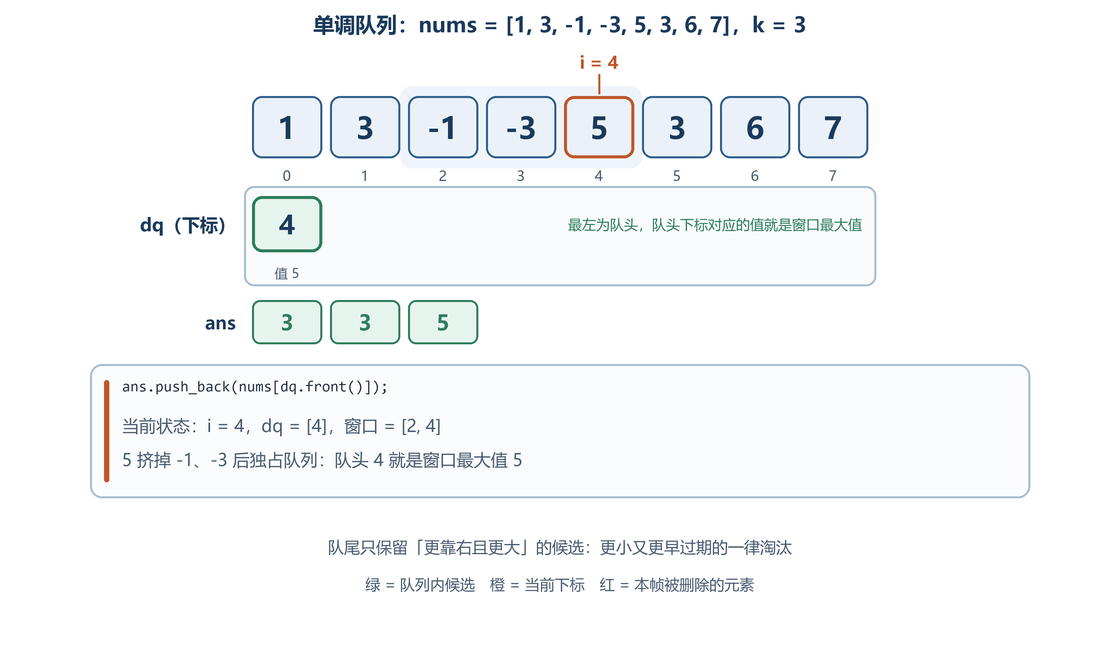
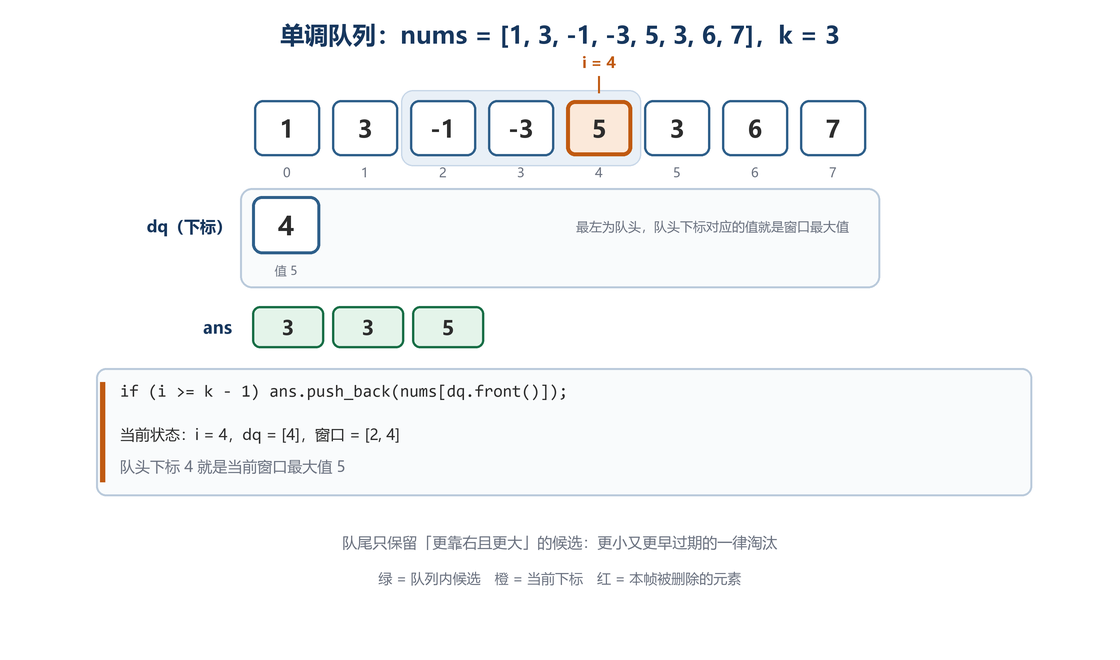
docs: 同步 deque 说明与栈队列章节修订
- C++ 第 7 章重写 deque 底层结构（分段连续数组、中央控制器、中间插入代价与适用场景）
- 数据结构第 4 章统一 LeetCode 题目引用格式，更新单调队列配图
- README 整理记录同步

diff --git a/docs/C++/07-STL容器与算法.md b/docs/C++/07-STL容器与算法.md
@@ -245,32 +245,151 @@ void insertValue(std::vector<int>& v, std::size_t index, int value)
 
 ## 7.4 `deque`：双端队列
 ### 7.4.1 基本概念与底层结构
-`deque`（Double-ended Queue）支持头部和尾部的高效 O(1) 插入/删除。
+`deque`（Double-ended Queue）是语义上的**双端队列**：头尾两端都能以摊销 O(1) 完成插入/删除，同时保留 O(1) 的随机访问。它既不是“头部可插入的 `vector`”，也不是链表，而是一种**分段连续**的数组结构。
 
-+ **底层并非单一连续数组**：它由一段段固定大小的连续内存块（Buffer）组成，通过一个中央控制器（`map`，一个指针数组）来管理这些内存块。
++ **底层并非单一连续数组**：元素被切分到若干段固定大小的连续内存块（Buffer / 块）中，另有一张指针数组（中央控制器，常称 `map`，与关联容器 `std::map` 毫无关系）按顺序记录各块地址。
++ **伪连续**：逻辑上下标访问像数组，物理上块与块之间并不相邻。所以 `&de[0] + i` 不保证等于 `&de[i]`，也不能把首元素地址当作 C 数组传给以 `T*` 为参数的函数——`deque` 根本没有 `data()`。
++ **首尾操作 O(1)**：头部插入只需在头部块的空闲槽位写入、必要时新建一个块，不需要像 `vector` 那样搬移已有元素；元素本身也不会因此搬家。
 + **伪随机访问**：它支持 `[]` 和 `+n`，但底层需要通过中央控制器进行两次偏移计算（先找到对应的 Buffer，再找到 Buffer 内的偏移），因此随机访问速度比 `vector` 慢。
-+ **适用场景**：后端开发中的**滑动窗口算法**、或者需要频繁在头部和尾部同时操作的场景。
++ **中间插入/删除 O(N)**：需要搬移元素；标准只保证 O(N)，常见实现会搬移距离较短的一侧（插入点到头部、插入点到尾部取较小者），因此比 `vector` 的中间插入略好，但仍是线性代价。
++ **块大小不由标准规定**：常见实现按 `sizeof(T)` 选取每块的元素个数（如 libstdc++ 取 `512 / sizeof(T)`，至少 1 个），具体数值属于实现细节，不能写进业务逻辑。
++ **适用场景**：后端开发中的**滑动窗口算法**、任务/消息缓冲、撤销栈，以及需要频繁在头部和尾部同时操作的场景。`std::stack` 与 `std::queue` 的默认底层容器就是 `deque`（见 7.10）。
 
+### 7.4.2 分段结构：中央控制器与迭代器寻址
+```text
+                 中央控制器（指针数组 map）
+              ┌────┬────┬────┬────┬────┐
+              │    │ P1 │ P2 │ P3 │    │  ← 两端空槽位，便于常数时间扩展
+              └────┴─┬──┴─┬──┴─┬──┴────┘
+                     │    │    │
+                ┌────▼─┐┌─▼────┐┌─▼────┐
+                │ 块1  ││  块2  ││ 块3  │  ← 每块是一段连续内存，大小实现相关
+                │ 空闲 ││ 元素… ││ 元素 │
+                └──────┘└───────┘└──────┘
+                   ↑首元素可从块中间开始      ↑尾元素可在块中间结束
+```
+
++ 中央控制器本身也是一段连续内存，容量满时需要重新分配并搬移**指针**（不是搬移元素），这一步是 O(N) 的，但均摊到每次首尾插入仍是 O(1)。
++ 迭代器因此不能只是一个裸指针：常见实现让它保存 `cur`（当前元素）、`first` / `last`（当前块的首尾边界）、`node`（控制器中指向当前块的槽位），`it + n` 要先算出跨了几块、块内偏移多少。标准只要求它满足随机访问迭代器的全部语义。
+
+### 7.4.3 创建与初始化
 ```cpp
 #include<deque>
 
+deque<int> de;                                     // 空队列
+deque<int> de1(5);                                 // 5 个元素，默认值 0
+deque<int> de2(5, 2);                              // 5 个元素，初始值 2
+deque<int> de3{1,2,3,4,5};                         // 列表初始化
+deque<int> de4(de3.begin() + 1, de3.begin() + 4);  // 迭代器区间：{2,3,4}
+deque<int> de5(de4);                               // 拷贝构造
+```
+
+### 7.4.4 元素访问与基本操作
+```cpp
 deque<int> de = {1,2,3,4,5};
 
-de.push_front(0);   // 头部插入 O(1)
-de.push_back(6);    // 尾部插入 O(1)
-de.pop_front();     // 头部删除 O(1)
-de.pop_back();      // 尾部删除 O(1)
+// 首尾插入/删除（唯一的“四件套”，均摊 O(1)）
+de.push_front(0);
+de.push_back(6);
+de.pop_front();
+de.pop_back();
+
+// 原地构造，省去临时对象的拷贝/移动
+de.emplace_front(-1);
+de.emplace_back(7);
+de.emplace(de.begin() + 2, 99);   // 指定位置构造，中间插入 O(N)
+
+// 元素访问
+de[0];          // 不检查越界，越界即未定义行为
+de.at(0);       // 越界抛出 std::out_of_range
+de.front();     // 首元素
+de.back();      // 尾元素
 
 // 随机访问迭代器
-auto it = de.begin() + 4;  // 支持随机访问类型迭代器
-it = de.insert(it, 10);    // 在指定位置插入（中间插入依然慢，需搬移）
-it = de.erase(it);         // 删除指定位置
+auto it = de.begin() + 4;
+it = de.insert(it, 10);   // 返回新元素的迭代器
+it = de.erase(it);        // 返回下一个元素的迭代器
 
 // 通过引用修改容器元素：
 for (int &v : de) {    // 注意引用 &
     if (v == 10) v = 20;   // 直接修改容器中的元素
 }
+
+// 容量相关
+de.size();
+de.empty();
+de.resize(8);         // 超出当前大小时补默认值 0，缩小则截断
+de.clear();           // 清空元素；已分配的块通常保留，但迭代器全部失效
+de.shrink_to_fit();   // C++11，请求释放多余块，非强制保证
 ```
+
+**深度剖析：`deque` 没有 `capacity()` 与 `reserve()`**  
+`vector` 是“一块连续空间”，容量概念清晰，`reserve` 才有意义。`deque` 的空间由“块数 × 每块元素数”两个维度决定，且标准不暴露块大小，因此无法给出有意义的 `capacity()`，也无法预留。**需要精确预分配、避免运行期零散分配的实时场景，仍然应该选 `vector` 并 `reserve`。**
+
+### 7.4.5 迭代器失效规则
+`deque` 的失效规则是 `vector` 与 `list` 之间的“第三条道路”，也是面试高频考点：
+
+| 操作 | 迭代器 | 指针 / 引用 | 说明 |
+| :--- | :--- | :--- | :--- |
+| `push_front` / `push_back` / `emplace_front` / `emplace_back` | **全部失效** | **保持有效** | 元素不搬家，但块边界/控制器可能变化 |
+| 中间 `insert` / `emplace` | **全部失效** | **全部失效** | 需搬移元素，还可能新建块 |
+| `erase` 首元素（非尾元素） | 仅被删元素失效 | 仅被删元素失效 | 其余元素原地不动 |
+| `erase` 尾元素 | 被删元素 + 尾后迭代器失效 | 仅被删元素失效 | 尾后位置前移 |
+| `erase` 中间元素 | **全部失效**（含尾后） | **全部失效** | 两侧可能整体搬移 |
+| `swap` | 全部失效（含尾后） | 全部失效 | 与 `vector` / `list` 的 `swap` 都不同 |
+| `clear` | 全部失效 | 全部失效 | 内存一般不释放 |
+
+**深度剖析：为什么“首尾插入时引用有效，迭代器却全部失效”？**  
+首尾插入只是在新块或块内空闲槽位写入，已有元素的地址完全不变，所以长期持有的 `int&` / `int*` 依然指向原来的对象。但迭代器内部除了“当前元素位置”，还绑定了“所在块”这一层信息：控制器可能重新分配、块的首尾边界可能改变，标准无法逐一保证旧迭代器仍然合法，于是干脆规定**所有迭代器失效**。
+
+对比记忆：
+
++ `vector`：扩张搬迁 → 迭代器、指针、引用**一起**失效。
++ `deque`：首尾插入 → **迭代器失效、引用存活**；中间操作 → 一起失效。
++ `list`：插入不失效；删除只失效被删元素。
+
+### 7.4.6 典型应用：单调队列求滑动窗口最大值
+这是 `deque` 最能体现价值的地方：既要从尾部不断弹出“更小且更早”的下标，又要从头部弹出“已过期”的下标，两端都得是 O(1)。
+
+```cpp
+#include<deque>
+#include<vector>
+
+// 维护一个“下标递增、对应值递减”的 deque，窗口最大值始终在队头
+vector<int> maxSlidingWindow(const vector<int>& nums, int k) {
+    deque<int> dq;   // 存放的是下标，不是值
+    vector<int> res;
+    for (int i = 0; i < (int)nums.size(); ++i) {
+        // 1. 队头滑出窗口
+        if (!dq.empty() && dq.front() <= i - k) {
+            dq.pop_front();
+        }
+        // 2. 队尾维护单调递减：比新元素小的旧元素永远不可能成为最大值
+        while (!dq.empty() && nums[dq.back()] <= nums[i]) {
+            dq.pop_back();
+        }
+        dq.push_back(i);
+        // 3. 窗口长度达到 k 后才开始记录答案
+        if (i >= k - 1) {
+            res.push_back(nums[dq.front()]);
+        }
+    }
+    return res;
+}
+```
+
++ 每个下标最多入队一次、出队一次，总时间复杂度 **O(N)**，空间 O(k)。
++ 换成 `vector`，头部 `erase` 需要 O(N) 搬移，整体退化到 O(N·k)；换成 `list`，两端操作同样是 O(1)，但每元素一个节点的内存开销与遍历性能都不如 `deque`。
+
+### 7.4.7 常见坑与选型建议
+1. **不要假设内存连续**：`deque` 没有 `data()`，不能把 `&de[0]` 交给 `memcpy`、`qsort`、C 风格 API 或“首地址 + 长度”的接口。
+2. **不要把中间插入当 O(1) 用**：`insert` / `erase` 在中间仍是 O(N)，且会让全部迭代器、指针、引用失效；频繁中间增删请用 `list`。
+3. **迭代器与引用要分开管理**：首尾插入后“引用还能用”不等于“迭代器还能用”，不要混用同一条结论。
+4. **`clear()` 不等于释放内存**：块通常被保留；要真正释放，需要 `shrink_to_fit()`（非强制）或与空容器 `swap`。
+5. **遍历性能仍弱于 `vector`**：需要跨块跳转，空间局部性被打断；只做尾部追加 + 整体遍历的场景一律选 `vector`。
+6. **`deque<bool>` 没有特化**：与 `vector<bool>` 不同，它存的是真正的 `bool`，不会出现代理引用导致的“`auto` 拿到代理对象”问题。
+
+选型口诀：**只在尾部动 → `vector`；两端都要动 → `deque`；中间频繁动 → `list`。**
 
 ---
 
@@ -1063,7 +1182,7 @@ public:
 | 容器类型 | 插入操作 (Insert / Push) 导致的失效 | 删除操作 (Erase / Pop) 导致的失效 |
 | :--- | :--- | :--- |
 | `vector` | **1. 触发扩容**：所有迭代器、指针、引用**全部失效**。   **2. 未扩容**：插入点**之后**的迭代器失效（因元素内存搬移）。 | 被删除元素**及其之后**的所有迭代器失效（因后续元素前移填补空缺）。 |
-| `deque` | **1. 头/尾插入**：所有**迭代器失效**，但**指针和引用不失效**（底层分段内存特性）。   **2. 中间插入**：所有迭代器、指针、引用**全部失效**。 | **1. 头/尾删除**：仅**被删除元素**的迭代器失效。   **2. 中间删除**：所有迭代器、指针、引用**全部失效**。 |
+| `deque` | **1. 头/尾插入**：所有**迭代器失效**，但**指针和引用不失效**（底层分段内存特性）。   **2. 中间插入**：所有迭代器、指针、引用**全部失效**。 | **1. 头删除**：仅**被删除元素**的迭代器、指针、引用失效。   **2. 尾删除**：被删除元素 + **尾后迭代器**失效（指针/引用仅被删元素）。   **3. 中间删除**：所有迭代器、指针、引用**全部失效**。 |
 | `list`   `forward_list` | **不失效**。   （链表节点在内存中独立，插入新节点不影响旧节点的地址）。 | **仅被删除元素**的迭代器失效。   （其他节点的 `prev/next` 指针虽被修改，但节点自身内存地址未变）。 |
 | `map` / `set`（有序关联容器） | **不失效**。节点式组织使插入不改变旧元素地址。 | **仅被删除元素**的迭代器失效。 |
 | `unordered_map`   (哈希表) | **1. 触发 Rehash**：所有迭代器**全部失效**。   **2. 未 Rehash**：插入操作**不失效**（拉链法新节点挂载在链表头部）。 | **仅被删除元素**的迭代器失效。 |

diff --git a/docs/数据结构/4.栈队列与单调结构.md b/docs/数据结构/4.栈队列与单调结构.md
@@ -368,7 +368,7 @@ string postfixToInfix(const string& postfix) {
 
 **4. 后缀表达式求值（LeetCode 150）**
 
-**逆波兰表达式求值** [leetcode150](https://leetcode.cn/problems/evaluate-reverse-polish-notation/?spm=a2ty_o01.29997173.0.0.15f25171oHEkg5)逆波兰表达式求值  用栈实现后缀表达式计算
+[**LeetCode 150. 逆波兰表达式求值**](https://leetcode.cn/problems/evaluate-reverse-polish-notation/)
 
 给你一个字符串数组 `tokens` ，表示一个根据 [逆波兰表示法](https://baike.baidu.com/item/逆波兰式/128437) 表示的算术表达式。
 
@@ -645,7 +645,7 @@ void BFS(TreeNode* root) {
 
 **2. 二叉树层序遍历（LeetCode 102）**
 
-[102. 二叉树的层序遍历](https://leetcode.cn/problems/binary-tree-level-order-traversal/)（Hot 100）
+[**LeetCode 102. 二叉树的层序遍历**](https://leetcode.cn/problems/binary-tree-level-order-traversal/)（Hot 100）
 
 给你二叉树的根节点 `root`，返回其节点值的**层序遍历**（即逐层地、从左到右访问所有节点）。
 
@@ -947,7 +947,7 @@ while (非空队列.size() > 1) {
 
 > 若编辑器不播放 GIF，看上一张静态结构图即可。
 
-**LeetCode 155. 最小栈**（[题面](https://leetcode.cn/problems/min-stack/)）
+[**LeetCode 155. 最小栈**](https://leetcode.cn/problems/min-stack/)（Hot 100）
 
 设计一个支持 `push`、`pop`、`top` 操作，并能在常数时间内检索到最小元素的栈。实现 `MinStack` 类：`push(val)` 入栈、`pop()` 弹出栈顶、`top()` 取栈顶、`getMin()` 取最小元素。
 
@@ -1016,6 +1016,8 @@ public:
 | 差值法 | 栈里存 `val - min`，另用一个 `long long min` | $O(1)$ | 需 `long long` 防溢出，可读性最差 |
 
 ## 4.4.2 单调栈
+
+[**LeetCode 739. 每日温度**](https://leetcode.cn/problems/daily-temperatures/)（Hot 100）
 
 **问题引入**：`T = [73, 74, 75, 71, 69, 72, 76]`，求每个位置「右边第一个更高温度」距它几天。暴力对每个 `i` 向右扫，最坏 $O(n^2)$；浪费在于 `75` 后面那几个更矮的温度「能挡住谁」被反复重算。
 
@@ -1106,7 +1108,7 @@ vector<int> dailyTemperatures(vector<int>& T) {
 
 值无法判断「是否过期」，两个相同的值尤其致命（删掉一个，不知道删的是哪一个）。下标既能拿去取 `nums`，又能和窗口左边界比较，一举两得。
 
-**LeetCode 239. 滑动窗口最大值**（[题面](https://leetcode.cn/problems/sliding-window-maximum/)）
+[**LeetCode 239. 滑动窗口最大值**](https://leetcode.cn/problems/sliding-window-maximum/)（Hot 100）
 
 给你一个整数数组 `nums`，有一个大小为 `k` 的滑动窗口从数组的最左侧移动到最右侧。你只可以看到窗口内的 `k` 个数字，窗口每次只向右移动一位。返回每个窗口中的最大值。
 
@@ -1154,16 +1156,19 @@ vector<int> maxSlidingWindow(vector<int>& nums, int k) {
 
     for (int i = 0; i < nums.size(); ++i) {
         // 1. 过期淘汰：队头下标已经滑出窗口 [i-k+1, i]
-        if (!dq.empty() && dq.front() <= i - k) dq.pop_front();
+        if (!dq.empty() && dq.front() <= i - k) 
+            dq.pop_front();
 
         // 2. 值淘汰：队尾元素既不更大、又更早过期
-        while (!dq.empty() && nums[dq.back()] <= nums[i]) dq.pop_back();
+        while (!dq.empty() && nums[dq.back()] <= nums[i]) 
+            dq.pop_back();
 
         // 3. 入队
         dq.push_back(i);
 
         // 4. 窗口满 k 个才开始记录答案
-        if (i >= k - 1) ans.push_back(nums[dq.front()]);
+        if (i >= k - 1) 
+            ans.push_back(nums[dq.front()]);
     }
     return ans;
 }

diff --git a/README.md b/README.md
@@ -112,6 +112,11 @@ C语言文档从基础知识开始；数据结构、网络和 Qt 内容建议在
 - 《网络服务器开发》重写「监听集合」一节：按定义、总览、fd 组成、三种模型实现（select / poll / epoll）分层展开，新增 4 张配图。
 - 数据结构：第 3 章补链表反转三种写法动图；第 4 章扩充最小值栈、单调栈/单调队列与中缀/后缀转换，新增 10 张配图；总览目录同步。
 
+2026-11-08 同步修订：
+
+- 《STL 容器与算法》重写 deque 底层结构说明（分段连续数组、中央控制器、中间插入代价与适用场景）。
+- 《栈队列与单调结构》统一 LeetCode 题目引用格式，更新单调队列示意图。
+
 ## 内容与资料来源
 
 本仓库由课程笔记、个人整理、学习资料及公开参考资料汇编而成。各篇正文保留已有来源、参考链接和来源索引；现代 C++ 文档包含原文整理内容，具体来源以正文标注为准。引用资料与插图的权利归各自权利人所有，本仓库未统一授予第三方内容新的开源许可。
